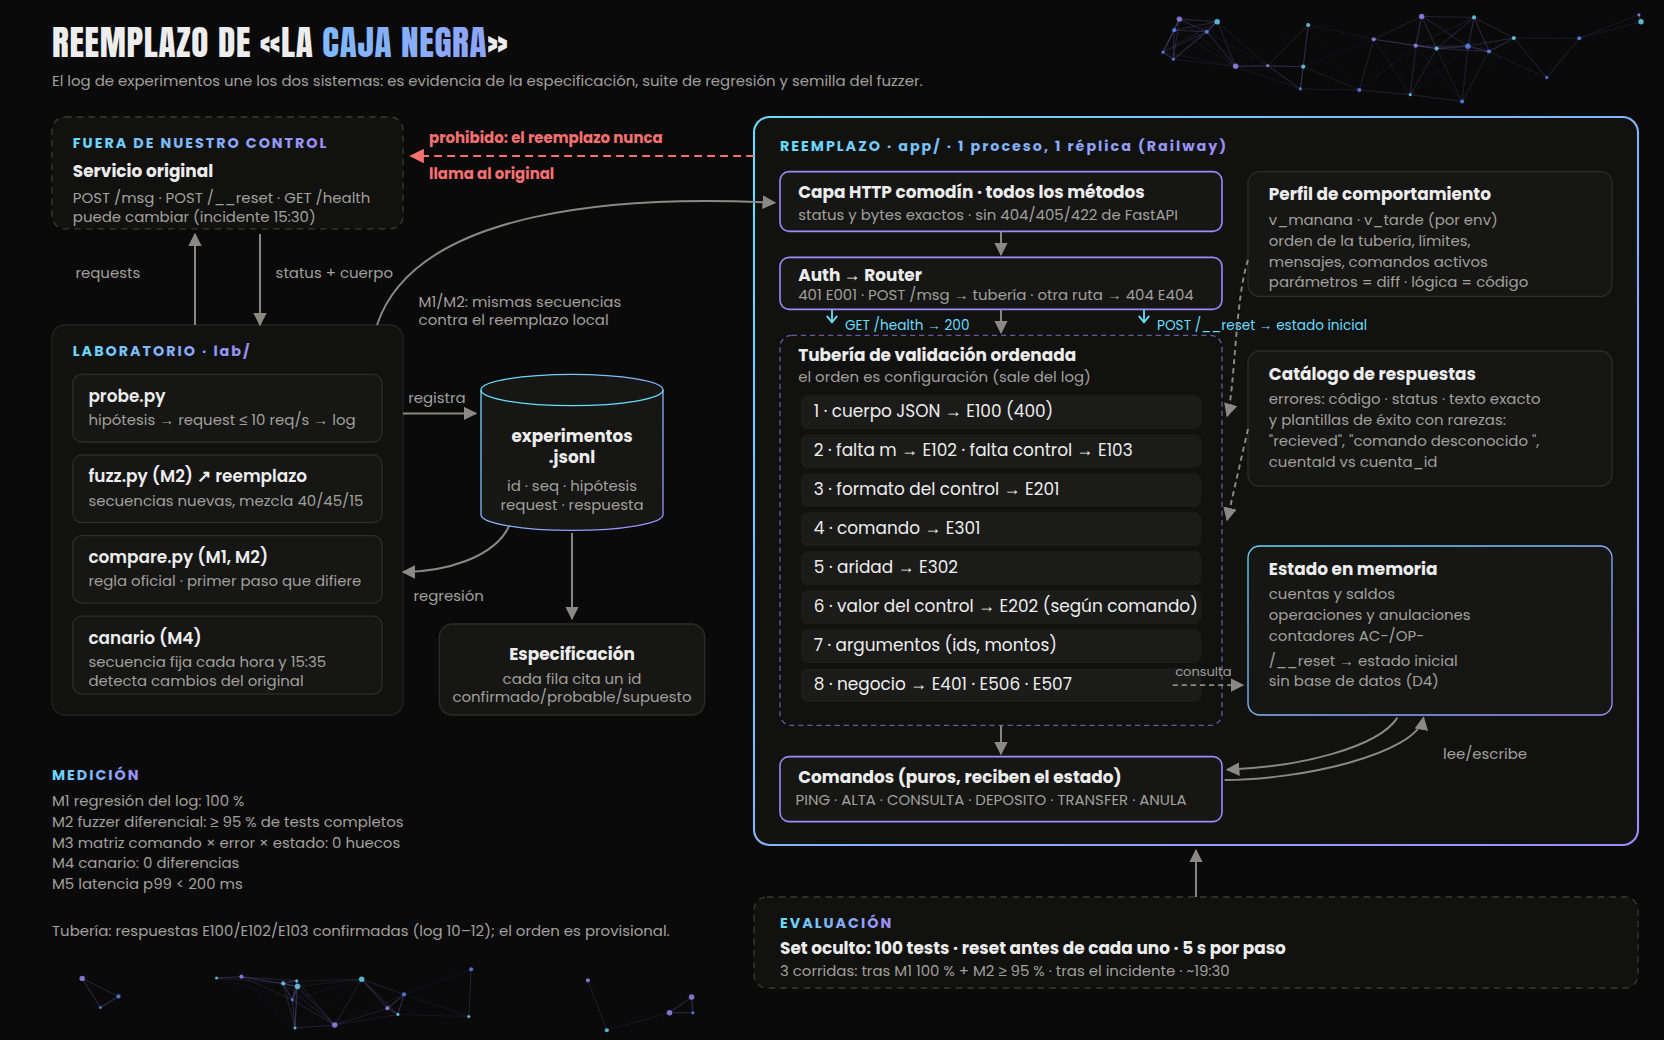
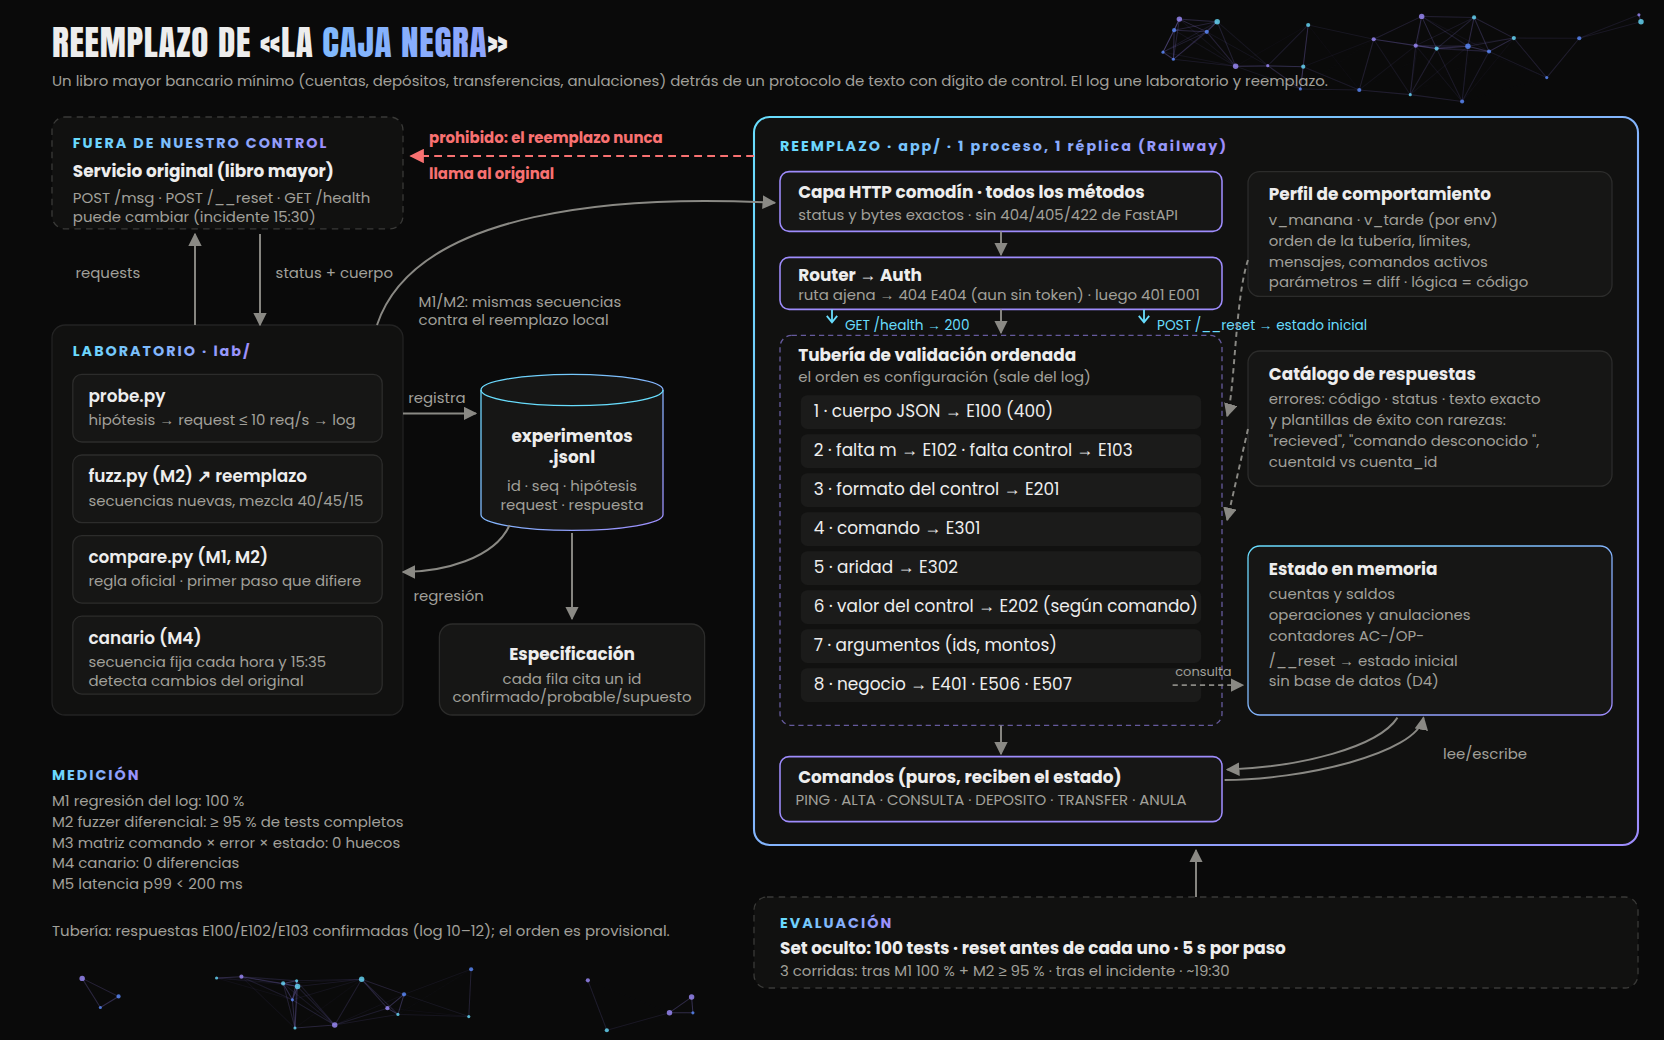
Diseño: dominio del servicio, router antes de auth y supuestos confirmados
- docs/diseno.md: sección «Qué parece ser el servicio» (libro mayor bancario mínimo, con citas a los ejemplos); el router se evalúa antes que la auth; S1 respaldado para ALTA y S2 confirmado para el contador de cuentas
- docs/arquitectura.svg y .png: Router → Auth y descripción del dominio
- experimentos.jsonl: 9 filas nuevas (134–142), incluidos los resets

Changed region(s): [[0.0312, 0.0615, 0.7812, 0.0923], [0.4688, 0.2462, 0.7188, 0.3077], [0.125, 0.1538, 0.2188, 0.1846]]

diff --git a/docs/diseno.md b/docs/diseno.md
@@ -10,6 +10,18 @@ _Fuente editable: [arquitectura.svg](arquitectura.svg)._
 
 Un servicio sin código ni documentación recibe mensajes por `POST /msg` (`{"m": "CMD;arg;…;control"}`) y responde. Hay que **entenderlo por completo y reemplazarlo** de forma que el set de evaluación oficial no distinga el reemplazo del original. Según `MATERIAL.md`, son 100 tests: 40 de un request, 45 secuencias de 2 a 5 y 15 de 6 a 12. Cada test empieza con `POST /__reset` y compara, paso a paso, el status HTTP y el cuerpo. Los JSON se comparan sin orden de claves y el texto, carácter por carácter.
 
+### Qué parece ser el servicio
+
+Por los comandos y las respuestas, el original se comporta como un **libro mayor bancario mínimo** (inferencia **probable**, a partir de los 20 ejemplos y del log):
+
+- **Cuentas**: `ALTA;<nombre>` abre una cuenta con id secuencial `AC-0001`, `AC-0002`… (ejemplos 3–4; log 135–140) y `CONSULTA;<cuenta>` devuelve su saldo, que empieza en 0 (ejemplo 5).
+- **Movimientos de dinero**: `DEPOSITO;<cuenta>;<monto>` y `TRANSFER;<origen>;<destino>;<monto>` crean operaciones `OP-0001`… y cambian los saldos (ejemplos 6–8, 10, 18–19).
+- **Reglas de riesgo**: un límite por transferencia (120000 da E506, ejemplo 9) y saldo insuficiente (E507, ejemplo 16).
+- **Reversión**: `ANULA;<operación>` anula una operación una sola vez; la segunda devuelve `ok:false` (ejemplos 13–14). Los ejemplos indican que **revierte los saldos**: AC-0002 tenía 140000 tras la transferencia OP-0003 de 100000 (ejemplos 8 y 10), después de anularla una transferencia de 50000 falla por saldo insuficiente (ejemplo 16) y su saldo final es 40700 = 40000 + 700 (ejemplo 19). Cómo revierte depósitos y anulaciones encadenadas está por medir.
+- **Integridad de trama**: cada mensaje termina en un dígito de control, como en los protocolos bancarios de texto plano de hace años, y `PING` sirve de latido.
+
+Leerlo como un libro mayor orienta las hipótesis (si `ANULA` revierte igual un depósito, si se puede transferir a la misma cuenta, si hay montos negativos o con decimales, si una operación fallida consume un número `OP-`) y la sección de riesgos de la especificación, porque un cliente nuevo no debería heredar sus huecos (riesgos **por investigar**, no comprobados: anulaciones sin restricción, falta de idempotencia, montos sin validar).
+
 Lo que el sistema tiene que resolver, en orden de dificultad:
 
 1. **Integridad.** El último campo es un dígito de control (00–99) que valida el mensaje. Hay que calcularlo exactamente igual. Algunos algoritmos concretos (sumas de bytes, un hash polinómico, CRC y Adler) no reprodujeron los 20 ejemplos en una prueba preliminar fuera del log; es un indicio, no un descarte, y se repetirá con evidencia registrada.
@@ -29,8 +41,8 @@ Lo que el sistema tiene que resolver, en orden de dificultad:
 
 | # | Supuesto | Cómo lo verifico |
 |---|---|---|
-| S1 | El dígito de control es una función pura del texto del mensaje: no depende del token, de la hora ni del estado. | **Abierto.** PING responde igual con todos los controles numéricos (log 13–112 de 00 a 99, 118–127 de 0 a 9) y entre repeticiones (113–117), pero no valida el valor del control, así que no prueba nada sobre el algoritmo. Se verifica con ALTA, que sí valida (ejemplo 2): mismo mensaje repetido, antes y después de un reset, y frente a los controles de los ejemplos. No hemos probado con un segundo token. |
-| S2 | `__reset` deja el estado exactamente como al inicio: el primer ALTA da `AC-0001` y la primera operación `OP-0001`. | `MATERIAL.md` garantiza estado por token y reset. Los ejemplos muestran el inicio en `AC-0001` (ej. 3) y `OP-0001` (ej. 6) y la continuidad (`AC-0002`, ej. 4). Falta confirmarlo nosotros: ALTA → reset → ALTA. |
+| S1 | El dígito de control es una función pura del texto del mensaje: no depende del token, de la hora ni del estado. | **Probable.** Confirmado solo para los mensajes probados: `ALTA;Lucia;82` es válido dos veces seguidas y otra vez tras un reset, `ALTA;Lucia;83` da E202 y `ALTA;Mateo;3` es válido, igual que en los ejemplos 2–4 que grabó la organización (log 135–137, 139–140). PING no valida el valor del control (log 13–127). Falta confirmarlo en los demás comandos. |
+| S2 | `__reset` deja el estado exactamente como al inicio: el primer ALTA da `AC-0001` y la primera operación `OP-0001`. | **Confirmado para cuentas:** ALTA → ALTA → reset → ALTA da `AC-0001`, `AC-0002` y de nuevo `AC-0001` (log 135, 136, 139); `__reset` responde 200 `{"ok":true}` (log 134, 138). Para operaciones (`OP-0001`) es **probable** (ejemplo 6). |
 | S3 | El set oculto usa los mismos comandos y errores que se pueden descubrir con exploración. | Barrido de nombres de comandos cuando se conozca el control. |
 | S4 | El incidente de las 15:30 cambia el comportamiento del servicio (no sabemos cuánto). | Canario y re-corrida completa del log a las 15:35. |
 
@@ -40,14 +52,14 @@ Lo que el sistema tiene que resolver, en orden de dificultad:
 - **Valores límite y «feos»**: montos cerca del límite (120000 se rechaza con E506; el límite exacto es desconocido), 0, negativos, decimales, ceros a la izquierda, espacios, minúsculas en el id de cuenta, campos vacíos (`PING;;64`) y números enormes.
 - **Interacciones de memoria**: anular una operación que dejó otra cuenta sin saldo, transferirse a uno mismo, anular un depósito frente a anular una transferencia, y contadores que avanzan (o no) cuando una operación falla.
 - **Entrada fuera de `/msg`**: rutas inexistentes, métodos incorrectos, cuerpo que no es JSON, `{}` y `m` vacío. Esos cuerpos de error tienen que coincidir, incluido el texto plano si lo hay.
-- **Auth**: a cualquier token que no sea el del equipo el reemplazo le responde lo mismo que el original da a un token inválido.
+- **Auth y rutas**: a cualquier token que no sea el del equipo el reemplazo le responde lo mismo que el original da a un token inválido, y el orden importa: `/noexiste` da 404 incluso sin token (log 141; para otras rutas, probable), pero una ruta existente sin token da 401.
 
 ### Lo que dejo fuera, con razón
 
 | Fuera | Por qué |
 |---|---|
 | Rate limit y header `X-Frontier-Infra` | Son de la infraestructura del evento, no del servicio (lo dice el material). |
-| Estado separado por token | El reemplazo solo atiende el token del equipo. Cualquier otro recibe el 401 del original y no toca estado. |
+| Estado separado por token | El reemplazo solo atiende el token del equipo. En las rutas reconocidas, cualquier otro recibe el 401 del original y no toca estado; las rutas inexistentes dan 404 igual que en el original. |
 | Headers (`X-Req` y otros) | El set no compara headers. `X-Req` se comporta como un contador de los `POST /msg` con token válido que siguió subiendo tras un reset (log 10–12, 128–133; **probable**). Lo replico como **supuesto** porque cuesta una línea y sirve para depurar. |
 | LLM dentro del reemplazo | Ver D1. |
 
@@ -64,14 +76,14 @@ Son dos sistemas: el **laboratorio**, que descubre el comportamiento y lo mide, 
 
 **Reemplazo** (`app/`, un proceso)
 1. **Capa HTTP comodín.** Una sola ruta `/{path}` para todos los métodos, que devuelve status y bytes exactos. `/health` y `/__reset` se despachan dentro de ella.
-2. **Auth, antes del routing (elección de diseño, probable).** Si no es el token del equipo, devuelve 401 `{"error":"E001","mensaje":"no autorizado"}`. Probado sin token y con token inválido en `GET /health` y `POST /msg` (log 1, 2, 4, 5), y sin token en `POST /__reset` (log 6); en rutas no probadas el reemplazo hace lo mismo como **supuesto**. Después va el router: `GET /health` → 200 `{"ok":true}` (log 3), `POST /__reset` → estado inicial, `POST /msg` → tubería; otra ruta o método → 404 `E404` (confirmado para `GET`/`POST /noexiste` y `GET /msg`, log 7–9; para `PUT`, `DELETE` y la raíz es **supuesto** hasta probarlo). Que la auth vaya antes del router es una **elección** del reemplazo: el log solo prueba el rechazo en rutas conocidas, y falta el cruce ruta inexistente + sin token.
+2. **Router, luego auth.** Primero se resuelve la ruta: `/noexiste` da 404 `{"error":"E404","mensaje":"ruta desconocida"}` **aunque no haya token** (`GET`, log 141) **o sea inválido** (`POST`, log 142); que valga para cualquier ruta inexistente es **probable** y es la regla que sigue el reemplazo y también con token válido (log 7, 8); `GET /msg` da el mismo 404 con token válido (log 9; sin token es **supuesto**). En las rutas que existen, si no es el token del equipo, devuelve 401 `{"error":"E001","mensaje":"no autorizado"}` (probado sin token y con token inválido en `GET /health` y `POST /msg`, log 1, 2, 4, 5, y sin token en `POST /__reset`, log 6). Con token válido: `GET /health` → 200 `{"ok":true}` (log 3), `POST /__reset` → 200 `{"ok":true}` y estado inicial (log 134), `POST /msg` → tubería. `PUT`, `DELETE` y la raíz son **supuesto** hasta probarlos.
 3. **Tubería de validación ordenada**: cuerpo JSON (E100) → falta `m` (E102) → falta control (E103) → formato del control (E201) → comando (E301) → aridad (E302) → valor del control (E202, que **depende del comando**: PING no validó ningún control numérico probado) → argumentos → reglas de negocio. El **orden es configuración**: sale de los experimentos y se cambia en un solo lugar. Las respuestas E100, E102 y E103 están confirmadas una a una (log 10–12); su precedencia relativa y el resto del orden son **provisionales** hasta probar fallas simultáneas.
 4. **Comandos** como manejadores puros `(estado, args) → (status, cuerpo, estado')`. Las etapas de argumentos y negocio **reciben el estado** (para saber si una cuenta existe o si alcanza el saldo).
 5. **Catálogo de respuestas** como datos: código, status y texto exacto de cada error, y las plantillas de las respuestas de éxito con sus rarezas (`recieved`, `cuentaId`/`cuenta_id`).
 6. **Estado en memoria**: cuentas, operaciones, contadores y anulaciones. `__reset` lo reemplaza entero por el estado inicial. **Atomicidad:** el manejador es `async def`, lee el cuerpo completo antes de tocar el estado y después ejecuta validación, transición (o reset) y construcción de la respuesta **sin ningún `await` ni traslado a hilos** en esa sección. En el event loop de un único worker eso hace la sección indivisible: dos requests nunca intercalan cambios. Bajo esa condición se descarta un lock (no añade nada); si algún día hubiera un `await` dentro, el lock pasaría a ser obligatorio.
 7. **Perfil de comportamiento** (`v_manana`, `v_tarde`), que se elige por variable de entorno y fija el orden de la tubería, los límites, los mensajes y los comandos activos. Si el incidente cambia algo parametrizable (orden, límites, mensajes, comandos activos), el arreglo es un diff de configuración; si cambia lógica, se modifica el manejador y debe pasar M1 y M2 antes de desplegar.
 
-**Despliegue:** Railway, un servicio con **1 réplica** y `uvicorn` con un solo worker. **Disponibilidad:** `/health` exige token (log 1–2), y el health check de Railway no envía credenciales, así que **no se configura health check de plataforma**; la disponibilidad se verifica después de cada despliegue con un script que llama `GET /health` con `Authorization: Bearer <TEAM_TOKEN>` y espera 200 `{"ok":true}`. Alternativas descartadas: abrir `/health` sin token (contradice log 1–2 y el contrato «sin token responde como el original») y crear una ruta pública extra (asumimos (**supuesto**, no probado) que el original da 401 en cualquier ruta sin token; si es así, una ruta pública extra rompería esa equivalencia).
+**Despliegue:** Railway, un servicio con **1 réplica** y `uvicorn` con un solo worker. **Disponibilidad:** `/health` exige token (log 1–2), y el health check de Railway no envía credenciales, así que **no se configura health check de plataforma**; la disponibilidad se verifica después de cada despliegue con un script que llama `GET /health` con `Authorization: Bearer <TEAM_TOKEN>` y espera 200 `{"ok":true}`. Alternativas descartadas: abrir `/health` sin token (contradice log 1–2 y el contrato «sin token responde como el original») y crear una ruta pública extra (el original responde 404 `E404` a `/noexiste` sin token, log 141, y el reemplazo generaliza esa regla; una ruta extra que responda 200 rompería esa equivalencia).
 
 ## 3. Decisiones y alternativas descartadas
 
@@ -131,11 +143,12 @@ La especificación sigue las siete secciones de `MATERIAL.md` (Entrada, Integrid
 
 ## 7. Hallazgos de la exploración inicial
 
-Antes de cerrar el diseño hice 133 experimentos (secuencias `d1-entrada`, `d2-control`, `d2-control-b`, `d3-xreq` y `d3-xreq-b`), enfocados en las preguntas que podían cambiar la arquitectura.
+Antes de cerrar el diseño hice 142 experimentos (secuencias `d1-entrada`, `d2-control`, `d2-control-b`, `d3-xreq`, `d3-xreq-b`, `d4-estado` y `d4-estado-b`), enfocados en las preguntas que podían cambiar la arquitectura.
 
 | Hallazgo | Evidencia (log) | Qué cambia en el diseño |
 |---|---|---|
-| `GET /health` y `POST /msg` dan 401 sin token y con token inválido; `POST /__reset` da 401 sin token (con token inválido no se probó). Cuerpo: `{"error":"E001","mensaje":"no autorizado"}`. | 1, 2, 4, 5, 6 | El reemplazo pone la auth primero (elección); en rutas inexistentes es **supuesto** (falta ese cruce). |
+| `GET /health` y `POST /msg` dan 401 sin token y con token inválido; `POST /__reset` da 401 sin token (con token inválido no se probó). Cuerpo: `{"error":"E001","mensaje":"no autorizado"}`. Pero `/noexiste` da 404 `E404` sin token (`GET`) y con token inválido (`POST`). | 1, 2, 4, 5, 6, 141, 142 | **El router va antes que la auth** (en lo probado). Corrige una elección inicial del diseño que suponía lo contrario. |
+| `ALTA` valida el control de forma estable: el mismo mensaje es válido en repeticiones y tras un reset, el control de los ejemplos de la organización sirve igual, y un control distinto da E202. Tras un reset las cuentas vuelven a `AC-0001`. | 135–137, 139, 140 | Respalda S1 (probable) y confirma S2 para el contador de cuentas: el reemplazo trata el control como función pura del texto. |
 | `GET /noexiste`, `POST /noexiste` y `GET /msg` dan 404 `{"error":"E404","mensaje":"ruta desconocida"}`. No hubo 405. | 7, 8, 9 | Confirma D2 (ruta comodín). `PUT`, `DELETE` y la raíz quedan por probar. |
 | Un cuerpo que no es JSON da 400 `E100 "json inválido"`, `{}` da `E102 "falta m"` y `{"m":""}` da `E103 "falta control"`. | 10, 11, 12 | Fija las respuestas de las primeras etapas. «Falta control» con `m` vacío **sugiere** que el control se busca antes que el comando; su precedencia exacta es provisional. |
 | `GET /health` con token válido da 200 `{"ok":true}`. | 3 | El contrato de `/health`. |
